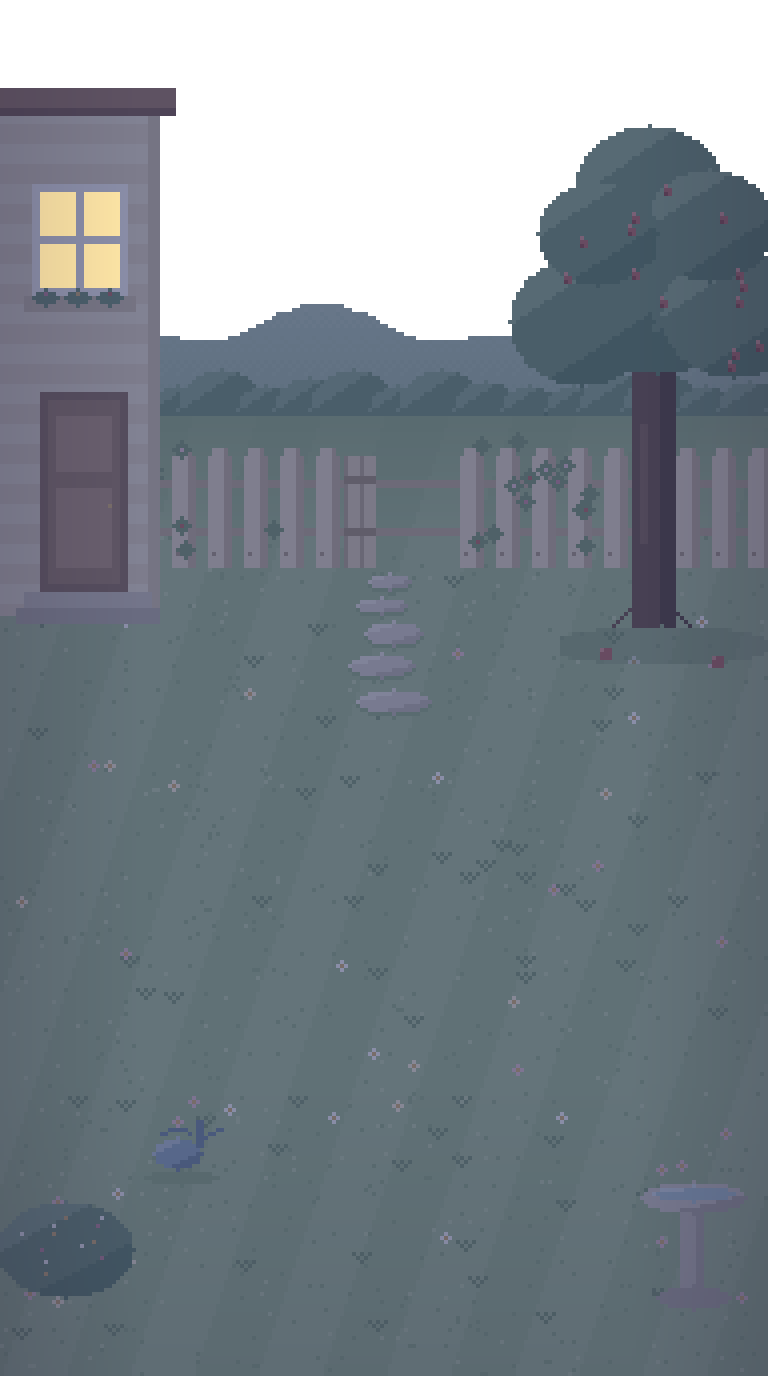
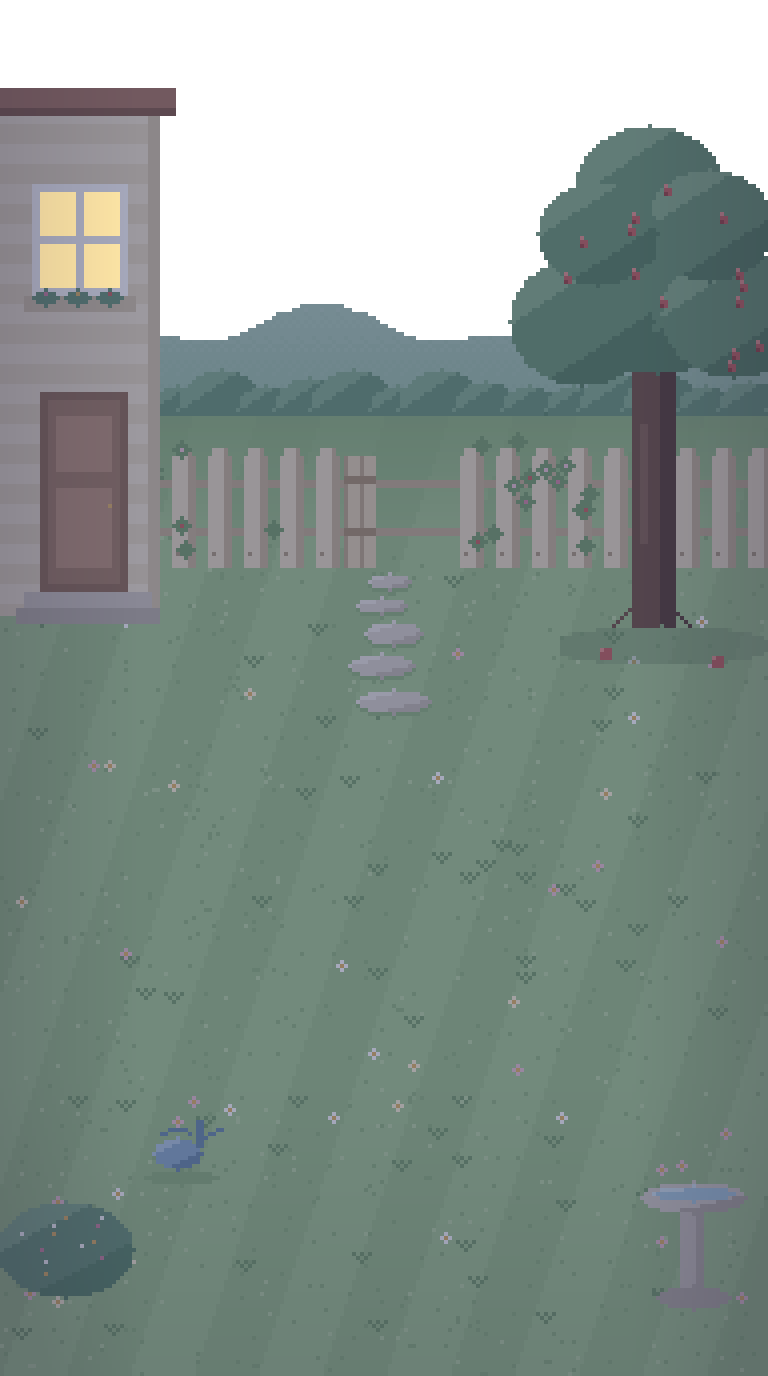
fix(garden): rain at night hid the whole garden
The rain effect was written for a window: it lays an overcast wash over the
pane so the room behind looks dim and wet. In the garden it covers the whole
screen, so that wash (0.45 for rain, 0.74 for a storm) landed on the beds,
the cat and the buttons' surroundings, on top of the garden's own rain
tint, on top of a night picture that was already dark. Night plus rain was
close to black.

- WeatherFx takes `open` (a whole outdoor scene, not a window): rain skips
  the pane wash and the drops crawling down the glass. Windows are
  unchanged; every other caller leaves it off.
- The garden's own overcast is lighter, and lighter still at night
  (rain 0.10 by day / 0.04 at night, storm 0.20 / 0.12).
- The night picture is less dark and less grey (moonlight blend 0.55 ->
  0.42, colour kept 0.55 -> 0.70, a softer vignette), so the garden reads
  at night even when it is dry.

Checked by rendering night+rain with empty beds (the reported case),
night+rain and night+storm with flowers, day+rain, day+storm and a dry
night.

Claude-Session: https://claude.ai/code/session_01SPaAMCKsg2E5oLjDEPLVBt

diff --git a/src/components/weather/WeatherFx.tsx b/src/components/weather/WeatherFx.tsx
@@ -75,6 +75,12 @@ interface FxProps {
    * Meteors do not take it, because they no longer paint a sky at all.
    */
   lit?: boolean
+  /**
+   * Outdoors: this covers a whole scene (the garden), not a window. Rain then
+   * skips the overcast wash, which is sized to dim a pane, not the screen, and
+   * the drops on the glass, because there is no glass. The scene dims itself.
+   */
+  open?: boolean
 }
 
 const FILL: React.CSSProperties = { position: 'absolute', inset: 0 }
@@ -301,7 +307,7 @@ function GlassDrops({ n, still }: { n: number; still: boolean }) {
   )
 }
 
-function Rain({ still, heavy, plate, lit }: FxProps & { heavy?: boolean }) {
+function Rain({ still, heavy, plate, lit, open }: FxProps & { heavy?: boolean }) {
   const passes = heavy ? RAIN_HEAVY : RAIN_LIGHT
   return (
     <>
@@ -319,13 +325,13 @@ function Rain({ still, heavy, plate, lit }: FxProps & { heavy?: boolean }) {
           mountain readable through it — a storm was never the complaint. Rain
           was: flat at 0.78 it was not weather over a window but a blind pulled
           down over it, and the kitchen went to a single grey. */}
-      <Wash background={heavy
+      {!open && <Wash background={heavy
         ? 'linear-gradient(180deg, rgba(20,26,50,0.74) 0%, rgba(38,48,78,0.62) 56%, rgba(56,66,94,0.5) 100%)'
-        : 'linear-gradient(180deg, rgba(46,58,90,0.45) 0%, rgba(78,90,118,0.34) 100%)'} />
+        : 'linear-gradient(180deg, rgba(46,58,90,0.45) 0%, rgba(78,90,118,0.34) 100%)'} />}
 
       {passes.map((p, i) => <RainPassLayer key={i} spec={p} still={!!still} />)}
       <RainSplashes n={heavy ? 10 : 6} still={!!still} />
-      <GlassDrops n={heavy ? 6 : 4} still={!!still} />
+      {!open && <GlassDrops n={heavy ? 6 : 4} still={!!still} />}
 
       <style>{`
         @keyframes wxRainFall {
@@ -500,10 +506,10 @@ function Strike({ shape, anim, cycle, frozen, still }: {
   )
 }
 
-function Storm({ still, plate, lit }: FxProps) {
+function Storm({ still, plate, lit, open }: FxProps) {
   return (
     <>
-      <Rain still={still} plate={plate} lit={lit} heavy />
+      <Rain still={still} plate={plate} lit={lit} open={open} heavy />
       <Strike shape={BOLT_A} anim="wxStrikeA" cycle={7.3} frozen still={!!still} />
       <Strike shape={BOLT_B} anim="wxStrikeB" cycle={11.9} frozen={false} still={!!still} />
       <style>{`
@@ -957,20 +963,22 @@ function Aurora({ still, lit, plate }: FxProps) {
 
 // ─── The switch ──────────────────────────────────────────────────────────────
 
-export default memo(function WeatherFx({ id, still, lit, plate }: {
+export default memo(function WeatherFx({ id, still, lit, plate, open }: {
   id: WeatherId
   still?: boolean
   /** The room around this window is in daylight — see FxProps. */
   lit?: boolean
   /** Nothing is painted behind this pane, so paint the sky too — see FxProps. */
   plate?: boolean
+  /** A whole outdoor scene, not a window — see FxProps. */
+  open?: boolean
 }) {
   switch (id) {
     // Clear is the painting itself, so it is a swatch sky and nothing else —
     // RoomWeather never renders it.
     case 'clear':        return <Clear still={still} lit={lit} />
-    case 'rain':         return <Rain still={still} plate={plate} lit={lit} />
-    case 'storm':        return <Storm still={still} plate={plate} lit={lit} />
+    case 'rain':         return <Rain still={still} plate={plate} lit={lit} open={open} />
+    case 'storm':        return <Storm still={still} plate={plate} lit={lit} open={open} />
     case 'snow':         return <Snow still={still} plate={plate} lit={lit} />
     case 'sunrise':      return <Sun still={still} plate={plate} />
     case 'sunset':       return <Sun still={still} plate={plate} dusk />

diff --git a/src/components/care/GardenScene.tsx b/src/components/care/GardenScene.tsx
@@ -327,7 +327,11 @@ function GardenWeather({ id, dark, still }: { id: WeatherId; dark: boolean; stil
   const wet = id === 'rain' || id === 'storm'
   return (
     <div aria-hidden className="absolute inset-0 pointer-events-none overflow-hidden">
-      {wet && <div className="absolute inset-0" style={{ background: 'rgba(40, 56, 90, 0.16)' }} />}
+      {/* Overcast, lightly: the beds have to stay readable in the rain, and
+          the night picture is dark enough already. */}
+      {wet && <div className="absolute inset-0" style={{
+        background: `rgba(40, 56, 90, ${id === 'storm' ? (dark ? 0.12 : 0.2) : (dark ? 0.04 : 0.1)})`,
+      }} />}
       {/* The art's own rectangle, reproduced from `cover` (see RoomWeather). */}
       <div style={{
         position: 'absolute', top: '50%', left: '50%', transform: 'translate(-50%, -50%)',
@@ -337,7 +341,7 @@ function GardenWeather({ id, dark, still }: { id: WeatherId; dark: boolean; stil
           position: 'absolute', left: 0, top: 0, width: '100%', height: skyOnly ? '31%' : '100%',
           overflow: 'hidden', containerType: 'size',
         }}>
-          <WeatherFx id={id} still={still} lit={!dark} />
+          <WeatherFx id={id} still={still} lit={!dark} open />
         </div>
         {/* A sky-only weather happens behind the house and the tree: draw the
             garden back over it with the sky cut out. */}

diff --git a/scripts/build_garden.py b/scripts/build_garden.py
@@ -272,11 +272,12 @@ NIGHT = hexrgb('#2A3260')
 
 
 def nightify(col):
-    """Moonlight: darker, cooler, a little desaturated."""
+    """Moonlight: darker, cooler, a little desaturated. Not too dark: the beds
+    and flowers are drawn over this, and a night garden still has to read."""
     r, g, b = col
     lum = 0.3 * r + 0.59 * g + 0.11 * b
-    d = mix((round(lum),) * 3, col, 0.55)
-    return mix(d, NIGHT, 0.55)
+    d = mix((round(lum),) * 3, col, 0.7)
+    return mix(d, NIGHT, 0.42)
 
 
 def light(x, y, col, night):
@@ -285,7 +286,7 @@ def light(x, y, col, night):
     diagram next to them, so the garden gets the same treatment."""
     nx, ny = x / W, y / H
     edge = max(0.0, (abs(nx - 0.5) - 0.32) * 2.2) + max(0.0, (ny - 0.78) * 1.1)
-    shade = min(0.28, edge * 0.35)
+    shade = min(0.18 if night else 0.28, edge * 0.35)
     col = mix(col, (40, 30, 50) if night else (70, 60, 40), shade)
     if not night:
         warm = max(0.0, 0.10 - 0.10 * (nx * 0.6 + ny * 0.9))
